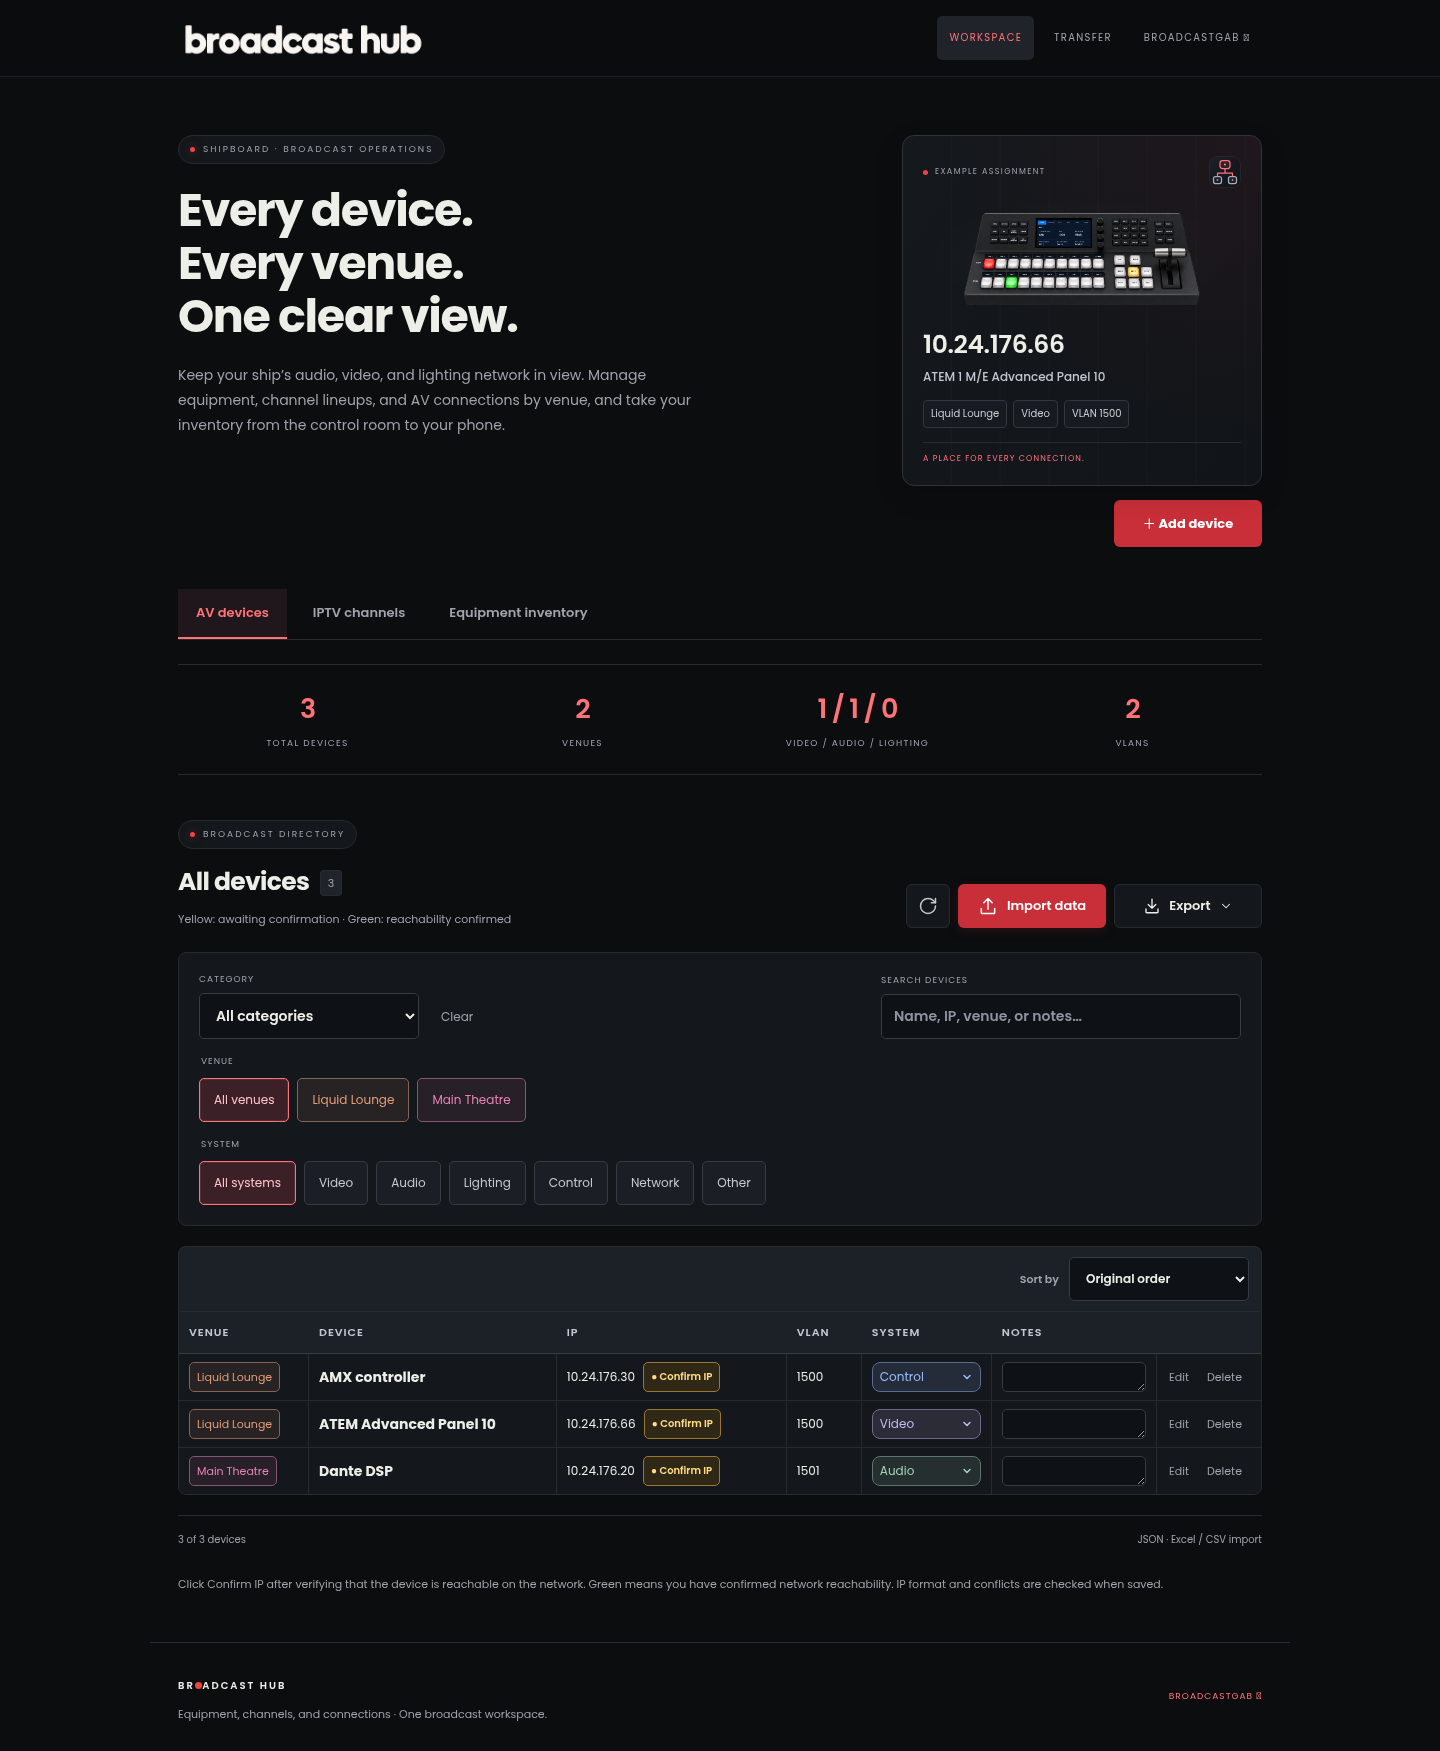
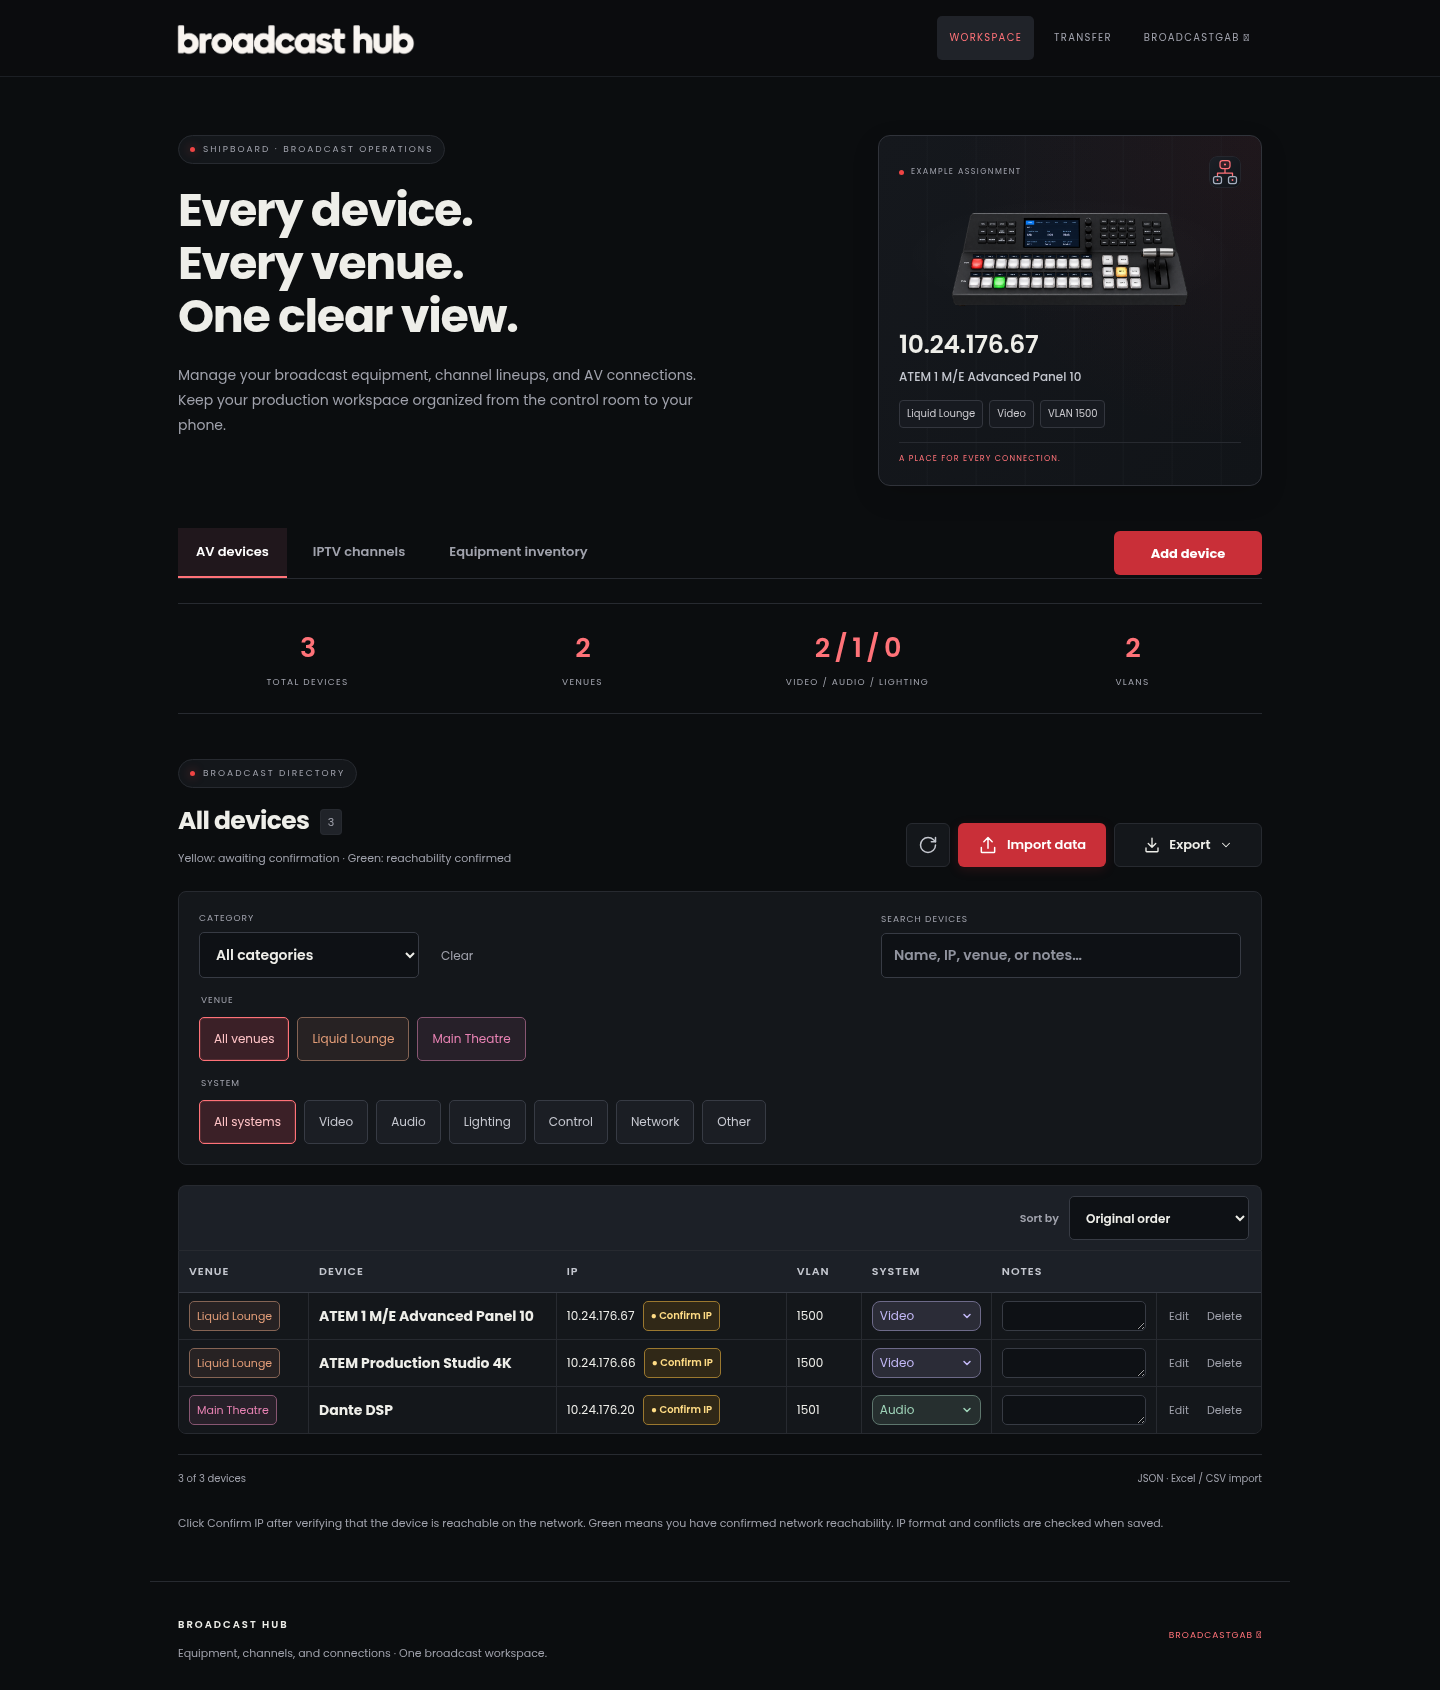
Align workspace actions and branding; widen Advanced Panel example

diff --git a/static/index.html b/static/index.html
@@ -10,8 +10,8 @@
 <body>
 <header class="topbar"><div class="header-inner"><a class="brand" href="/" aria-label="Broadcast Hub home"><img class="brand-logo" src="/brand-logo.png" alt="Broadcast Hub"></a><nav aria-label="Main navigation"><a class="nav-active" href="#workspace" aria-current="page">Workspace</a><a id="nav-transfer" href="#transfer">Transfer</a><a href="https://broadcastgab.com" target="_blank" rel="noopener noreferrer">BroadcastGab ↗</a></nav></div></header>
 <main>
-<section class="heading"><div class="hero-copy"><p class="eyebrow">SHIPBOARD · BROADCAST OPERATIONS</p><h1 id="hero-title">Every device.<br>Every venue.<br><span>One clear view.</span></h1><p class="intro" id="hero-intro">Keep your ship’s audio, video, and lighting network in view. Manage equipment, channel lineups, and AV connections by venue, and take your inventory from the control room to your phone.</p></div><div class="hero-side"><aside class="network-card" aria-label="Example device assignment"><div class="network-card-top"><span>EXAMPLE ASSIGNMENT</span><img src="/icon.svg" width="36" height="36" alt=""></div><div id="example-media" class="example-media"><img src="/example-switcher.png" alt="Illustration of an ATEM 1 M/E Advanced Panel 10" width="300" height="160"></div><p class="network-ip" id="example-ip">10.24.176.66</p><p class="network-name" id="example-name">ATEM 1 M/E Advanced Panel 10</p><div class="network-tags" id="example-tags"><span>Liquid Lounge</span><span>Video</span><span>VLAN 1500</span></div><p class="network-caption">A place for every connection.</p></aside><button id="add-device" class="primary"><span aria-hidden="true">＋</span> Add device</button></div></section>
-<div id="workspace" class="inventory-tabs" role="tablist" aria-label="Inventory type"><button id="device-tab" role="tab" aria-selected="true" aria-controls="inventory">AV devices</button><button id="iptv-tab" role="tab" aria-selected="false" aria-controls="inventory" tabindex="-1">IPTV channels</button><button id="equipment-tab" role="tab" aria-selected="false" aria-controls="equipment-panel" tabindex="-1">Equipment inventory</button></div>
+<section class="heading"><div class="hero-copy"><p class="eyebrow">SHIPBOARD · BROADCAST OPERATIONS</p><h1 id="hero-title">Every device.<br>Every venue.<br><span>One clear view.</span></h1><p class="intro" id="hero-intro">Keep your ship’s audio, video, and lighting network in view. Manage equipment, channel lineups, and AV connections by venue, and take your inventory from the control room to your phone.</p></div><div class="hero-side"><aside class="network-card" aria-label="Example device assignment"><div class="network-card-top"><span>EXAMPLE ASSIGNMENT</span><img src="/icon.svg" width="36" height="36" alt=""></div><div id="example-media" class="example-media"><img src="/example-switcher.png" alt="Illustration of an ATEM 1 M/E Advanced Panel 10" width="300" height="160"></div><p class="network-ip" id="example-ip">10.24.176.67</p><p class="network-name" id="example-name">ATEM 1 M/E Advanced Panel 10</p><div class="network-tags" id="example-tags"><span>Liquid Lounge</span><span>Video</span><span>VLAN 1500</span></div><p class="network-caption">A place for every connection.</p></aside></div></section>
+<div id="workspace" class="workspace-bar"><div class="inventory-tabs" role="tablist" aria-label="Inventory type"><button id="device-tab" role="tab" aria-selected="true" aria-controls="inventory">AV devices</button><button id="iptv-tab" role="tab" aria-selected="false" aria-controls="inventory" tabindex="-1">IPTV channels</button><button id="equipment-tab" role="tab" aria-selected="false" aria-controls="equipment-panel" tabindex="-1">Equipment inventory</button></div><button id="add-device" class="primary"><span aria-hidden="true">＋</span> Add device</button></div>
 <section class="stats" aria-label="Inventory summary"><div><span id="total-label">Total devices</span><strong id="total">—</strong></div><div id="venue-stat"><span>Venues</span><strong id="venue-count">—</strong></div><div><span id="system-count-label">Video / Audio / Lighting</span><strong id="system-count">—</strong></div><div id="vlan-stat"><span>VLANs</span><strong id="vlan-count">—</strong></div></section>
 <section class="inventory-panel" id="inventory" role="tabpanel" aria-labelledby="device-tab">
 <div class="panel-heading"><div><p class="eyebrow">BROADCAST DIRECTORY</p><h2><span id="list-title">All devices</span> <span id="result-count" class="count">0</span></h2><p id="confirmation-legend">Yellow: awaiting confirmation · Green: reachability confirmed</p></div><div class="file-actions" id="transfer"><button id="refresh" class="quiet refresh-button" type="button" aria-label="Refresh" title="Refresh"><svg viewBox="0 0 24 24" aria-hidden="true" focusable="false"><path d="M21 12a9 9 0 1 1-9-9c2.52 0 4.93 1 6.74 2.74L21 8"/><path d="M21 3v5h-5"/></svg></button><button id="import" class="primary import-button" type="button"><svg viewBox="0 0 24 24" aria-hidden="true" focusable="false"><path d="M12 16V3m-5 5 5-5 5 5M4 15v5a1 1 0 0 0 1 1h14a1 1 0 0 0 1-1v-5"/></svg><span>Import data</span></button><details class="export-dropdown"><summary class="export-toggle"><svg viewBox="0 0 24 24" aria-hidden="true" focusable="false"><path d="M12 3v12m-5-5 5 5 5-5M4 16v4a1 1 0 0 0 1 1h14a1 1 0 0 0 1-1v-4"/></svg><span>Export</span><svg class="export-chevron" viewBox="0 0 24 24" aria-hidden="true" focusable="false"><path d="m6 9 6 6 6-6"/></svg></summary><div class="export-links"><a href="/api/export" download>JSON ↓</a><a href="/api/export.csv" download>CSV ↓</a><a href="/api/export.xlsx" class="report-download" download="broadcast-network.xlsx">XLSX ↓</a><a href="/api/export.pdf" class="report-download" download="broadcast-network.pdf">PDF ↓</a></div></details><input id="import-file" type="file" accept=".json,.xlsx,.csv,application/json,application/vnd.openxmlformats-officedocument.spreadsheetml.sheet,text/csv" hidden></div></div>
@@ -35,7 +35,7 @@
 <footer class="panel-footer"><span id="equipment-showing">0 items</span><span>Equipment exports · JSON / CSV</span></footer>
 </section>
 <p class="footnote" id="validation-note">Click Confirm IP after verifying that the device is reachable on the network. Green means you have confirmed network reachability. IP format and conflicts are checked when saved.</p>
-</main><footer class="site-footer"><div><strong aria-label="Broadcast Hub"><span class="brand-word" aria-hidden="true">BR<span class="record-o"></span>ADCAST HUB</span></strong><p>Equipment, channels, and connections · One broadcast workspace.</p></div><a href="https://broadcastgab.com" target="_blank" rel="noopener noreferrer">BROADCASTGAB ↗</a></footer>
+</main><footer class="site-footer"><div><strong>BROADCAST HUB</strong><p>Equipment, channels, and connections · One broadcast workspace.</p></div><a href="https://broadcastgab.com" target="_blank" rel="noopener noreferrer">BROADCASTGAB ↗</a></footer>
 <dialog id="device-dialog" aria-labelledby="form-title"><form id="device-form"><div class="dialog-heading"><div><p class="eyebrow">DEVICE DETAILS</p><h2 id="form-title">Add device</h2></div><button type="button" id="close-dialog" class="icon-button" aria-label="Close">✕</button></div><p id="form-intro" class="dialog-intro">Give this device a home in your inventory.</p>
 <div class="form-grid"><input name="record_type" type="hidden" value="device"><label class="full"><span id="name-label">Device name</span><input name="name" maxlength="120" placeholder="e.g. ATEM video switcher" autocomplete="off"></label><label id="category-field">Category<input name="category" maxlength="120" list="categories" placeholder="e.g. Video switcher"><datalist id="categories"><option value="Video switcher"><option value="Camera"><option value="Display"><option value="Audio console"><option value="Amplifier"><option value="Lighting console"><option value="Network switch"><option value="Media server"></datalist></label><label id="form-system-group" class="full">System<select id="form-system" name="discipline"><option value=""></option><option value="Video">Video</option><option value="Audio">Audio</option><option value="Lighting">Lighting</option><option value="Control">Control</option><option value="Network">Network</option><option value="Other">Other</option></select></label><fieldset id="form-source-group" class="form-choices full" hidden><legend>Channel source</legend><input name="channel_source" type="hidden"><div id="form-source-buttons" class="choice-buttons" role="group" aria-label="Channel source"></div></fieldset><label class="full" id="venue-field">Venue<input name="venue" maxlength="120" list="venues" placeholder="e.g. Liquid Lounge"><datalist id="venues"></datalist></label><div class="full" id="venue-suggestions" hidden><p class="suggestion-label">Choose a saved venue, or type a new one above</p><div id="form-venue-buttons" class="choice-buttons" role="group" aria-label="Choose saved venue"></div></div><label>IP address<input name="ip" maxlength="15" inputmode="decimal" placeholder="10.24.176.66" autocomplete="off" spellcheck="false" aria-describedby="ip-hint"><small id="ip-hint">IPv4 · checked when saved</small></label><label id="vlan-field">VLAN<input name="vlan" type="number" min="1" max="4094" step="1" inputmode="numeric" placeholder="1500"><small>Optional · 1–4094</small></label><label id="port-field" hidden>Port<input name="port" type="number" min="1" max="65535" step="1" inputmode="numeric" placeholder="e.g. 1234"><small>1–65535</small></label><label class="full">Notes <span class="optional">(optional)</span><textarea name="notes" maxlength="2000" rows="3" placeholder="Rack location, port, or anything worth knowing…"></textarea></label></div><p id="form-error" class="error" role="alert" hidden></p><div class="dialog-actions"><button type="button" id="cancel-dialog" class="secondary">Cancel</button><button id="save-device" class="primary" type="submit">Save device</button></div></form></dialog>
 <dialog id="delete-dialog" aria-labelledby="delete-title"><h2 id="delete-title">Delete this device?</h2><p id="delete-description"></p><p>This removes the device from the shared inventory.</p><p id="delete-error" class="error" role="alert" hidden></p><div class="dialog-actions"><button id="cancel-delete" class="secondary">Keep device</button><button id="confirm-delete" class="danger">Delete device</button></div></dialog>

diff --git a/static/style.css b/static/style.css
@@ -73,7 +73,7 @@ button.primary, button.secondary, button.danger { padding: 12px 18px; border-rad
 .danger { background: #c92f38; color: #fff; }
 .quiet { background: transparent; border: 0; border-radius: 5px; padding: 10px; color: var(--muted); font-size: 12px; min-height: 44px; }
 .quiet:hover { color: var(--accent-text); background: #202329; }
-.network-card { position: relative; overflow: hidden; width: 100%; max-width: 360px; justify-self: end; background: radial-gradient(circle at top right, #c92f3812, transparent 60%), linear-gradient(125deg, #15181d, #111418); border: 1px solid #30333a; border-radius: 12px; padding: 20px; box-shadow: 0 10px 28px #0002; }
+.network-card { position: relative; overflow: hidden; width: 100%; max-width: 384px; justify-self: end; background: radial-gradient(circle at top right, #c92f3812, transparent 60%), linear-gradient(125deg, #15181d, #111418); border: 1px solid #30333a; border-radius: 12px; padding: 20px; box-shadow: 0 10px 28px #0002; }
 .network-card::before { content: ""; pointer-events: none; position: absolute; inset: 0; opacity: .16; background: repeating-linear-gradient(90deg, transparent 0 47px, #282c32 48px 49px); }
 .network-card > * { position: relative; }
 .network-card-top { display: flex; align-items: center; justify-content: space-between; gap: 10px; font: 8px var(--font-ui); letter-spacing: 1.4px; color: var(--muted); }
@@ -300,17 +300,6 @@ textarea { resize: vertical; }
 @media (max-width: 600px) { .equipment-filters { grid-template-columns: 1fr; } }
 
 
-/* Reveal the terminal lettering first, then start the recording light. */
-.brand-word { white-space: nowrap; display: inline-block; font-family: var(--font-ui); animation: brand-typing 200ms steps(13,end) both; }
-.record-o { display: inline-block; position: relative; width: .72em; height: .72em; width: 1cap; height: 1cap; vertical-align: baseline; margin-inline: .025em; }
-.record-o::after { content: ""; position: absolute; inset: 0; width: 100%; height: 100%; border-radius: 50%; background: var(--accent); animation: recording-pulse 1.8s ease-in-out 200ms infinite; }
-@keyframes brand-typing { from { clip-path: inset(0 100% 0 0); } to { clip-path: inset(-.5em); } }
-@keyframes recording-pulse {
-  0%, 100% { opacity: .65; box-shadow: 0 0 0 0 #ef444400; }
-  50% { opacity: 1; box-shadow: 0 0 0 .2em #ef444425, 0 0 .75em #ef444470; }
-}
-@media (prefers-reduced-motion: reduce) { .brand-word { animation: none; } .record-o::after { animation: none; opacity: 1; } }
-
 .import-warnings{margin:0 20px 20px;padding:18px;border:1px solid #a16207;border-radius:10px;background:#211b10;color:#fcd34d;overflow-wrap:anywhere}.import-warnings h3{margin:0 0 8px;font-size:16px}.import-warnings p,.import-warnings li{font-size:13px;line-height:1.6}.import-warnings ul{padding-left:20px;max-height:260px;overflow-y:auto}
 
 .choice-button.venue-choice{color:var(--venue-color);border-color:color-mix(in srgb,var(--venue-color) 50%,var(--border));background:color-mix(in srgb,var(--venue-color) 9%,#14161b)}
@@ -365,7 +354,7 @@ button.system-select{display:flex;justify-content:space-between;align-items:cent
 
 .device-ip,.network-ip,.vlan-cell{font-variant-numeric:tabular-nums}
 
-.brand-logo{display:block;width:250px;max-width:100%;height:42px;object-fit:cover;object-position:center}
+.brand-logo{display:block;width:250px;max-width:100%;height:42px;object-fit:cover;object-position:center;transform:translateX(-3%)}
 @media(max-width:600px){.brand-logo{width:220px;height:38px}}
 
 .network-card-top img{width:32px;height:32px;padding:6px;border:1px solid #4a2830;border-radius:8px;background:#21171b}
@@ -394,6 +383,12 @@ button.system-select{display:flex;justify-content:space-between;align-items:cent
 .network-card:has(.example-media:not([hidden])) .network-ip{margin-top:8px}
 
 .hero-side{display:flex;flex-direction:column;align-items:flex-end;gap:14px;min-width:0}
-.hero-side>#add-device{min-width:148px}
 
 .hero-copy{display:flex;flex-direction:column;align-items:flex-start}
+
+.workspace-bar{display:flex;align-items:center;justify-content:space-between;gap:16px;margin-bottom:24px;border-bottom:1px solid var(--border)}
+.workspace-bar .inventory-tabs{flex:1;min-width:0;margin:0;border:0;flex-wrap:nowrap;overflow-x:auto;scrollbar-width:none}
+.workspace-bar .inventory-tabs::-webkit-scrollbar{display:none}
+.workspace-bar .inventory-tabs button{flex-shrink:0;white-space:nowrap}
+.workspace-bar>#add-device{flex-shrink:0;min-width:148px;height:44px;white-space:nowrap}
+@media(max-width:600px){.workspace-bar{gap:10px}.workspace-bar>#add-device{min-width:120px;padding:8px 10px;font-size:12px}}

diff --git a/static/app.js b/static/app.js
@@ -210,7 +210,7 @@ function switchTab(type) {
 
   $('hero-title').replaceChildren(document.createTextNode(iptv ? 'Every channel.' : 'Every device.'), element('br'), document.createTextNode(iptv ? 'Every source.' : 'Every venue.'), element('br'), element('span', '', 'One clear view.'));
   $('hero-intro').textContent = iptv ? 'Keep your onboard and satellite channel lineup in view. Track stream addresses and ports, organize channels by source, and take your inventory from the control room to your phone.' : 'Manage your broadcast equipment, channel lineups, and AV connections. Keep your production workspace organized from the control room to your phone.';
-  $('example-ip').textContent = iptv ? '239.1.1.10' : '10.24.176.66';
+  $('example-ip').textContent = iptv ? '239.1.1.10' : '10.24.176.67';
   $('example-name').textContent = iptv ? 'Ship information' : 'ATEM 1 M/E Advanced Panel 10';
   $('example-tags').replaceChildren(...(iptv ? ['Onboard', 'Port 1234'] : ['Liquid Lounge', 'Video', 'VLAN 1500']).map(text => element('span', '', text)));
 

diff --git a/tests/browser_check.py b/tests/browser_check.py
@@ -583,30 +583,18 @@ with tempfile.TemporaryDirectory() as temp:
             assert page.locator('#directory-vlan-title').is_hidden()
             assert page.locator('#directory-system-title').inner_text() == 'SOURCE'
             page.get_by_role('tab', name='AV devices', exact=True).click()
-            brand = page.locator('.site-footer .brand-word')
+            brand = page.locator('.site-footer strong')
             page.evaluate('document.fonts.ready')
             assert 'Poppins' in brand.evaluate('(node) => getComputedStyle(node).fontFamily')
             assert page.evaluate('document.fonts.check(\'12px "Poppins"\')')
             assert page.evaluate('Array.from(document.fonts).some(font => font.family === \'Poppins\' && font.status === \'loaded\')')
-            assert brand.evaluate('(node) => getComputedStyle(node).animationDuration') == '0.2s'
+            assert brand.inner_text() == 'BROADCAST HUB'
+            assert brand.evaluate('(node) => getComputedStyle(node).animationName') == 'none'
             assert page.locator('.topbar .brand-logo').get_attribute('src') == '/brand-logo.png'
             assert page.locator('.topbar .brand-logo').evaluate('(image) => image.complete && image.naturalWidth > 0')
             assert not page.locator('.topbar .brand-word').count()
             assert page.locator('.topbar .record-o').count() == 0
-            assert page.locator('.site-footer .record-o').evaluate('(node) => getComputedStyle(node, "::after").animationDelay') == '0.2s'
-            assert page.locator('.site-footer .brand-word').evaluate_all('''nodes => nodes.every(brand => {
-                const probe = document.createElement('span');
-                probe.style.cssText = 'display:inline-block;width:0;height:0;vertical-align:baseline';
-                brand.append(probe);
-                const baseline = probe.getBoundingClientRect().top;
-                const circle = brand.querySelector('.record-o').getBoundingClientRect();
-                const style = getComputedStyle(brand);
-                const context = document.createElement('canvas').getContext('2d');
-                context.font = `${style.fontWeight} ${style.fontSize} ${style.fontFamily}`;
-                const cap = context.measureText('H').actualBoundingBoxAscent;
-                probe.remove();
-                return Math.abs(circle.bottom - baseline) < .2 && Math.abs(circle.height - cap) < 1;
-            })''')
+            assert not page.locator('.site-footer .record-o').count()
             page.locator('.topbar .brand').screenshot(path='/tmp/broadcast-title-rec-alignment.png')
             notes_input = page.get_by_role('textbox', name='Notes for Unassigned camera', exact=True)
             assert notes_input.input_value() == 'Rack B, review later'
